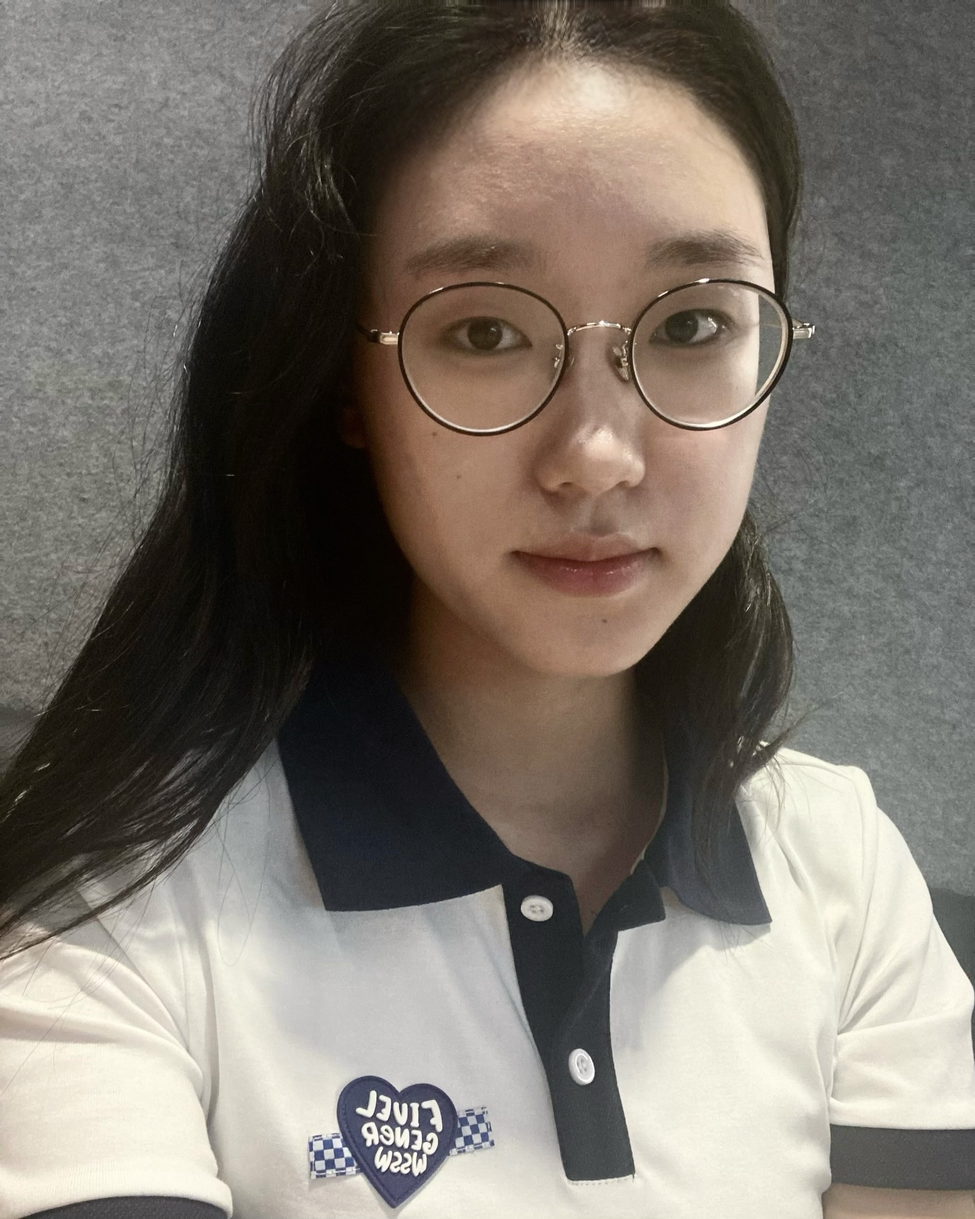
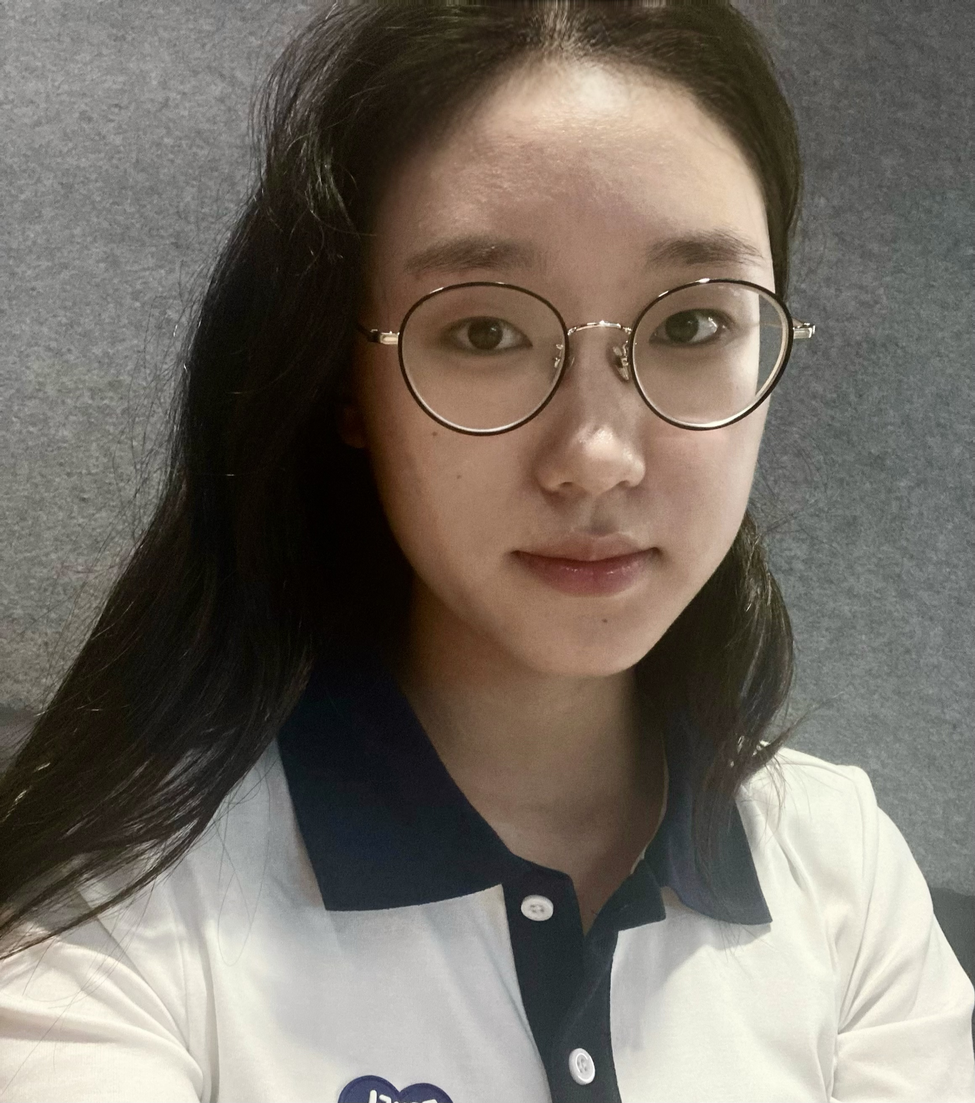
Hw (#84)
* updated fmt

* clean up

* Huiwen (#82)

* Update people.html

* change photo size

* add people image

* change photo size

* add people image

---------

diff --git a/people.html b/people.html
@@ -440,8 +440,8 @@
             <br />
             <img
               src="images/people/huiwen.jpg"
-              width="232"
-              height="290"
+              width="220"
+              height="250"
               align="center"
             />
           </td>
